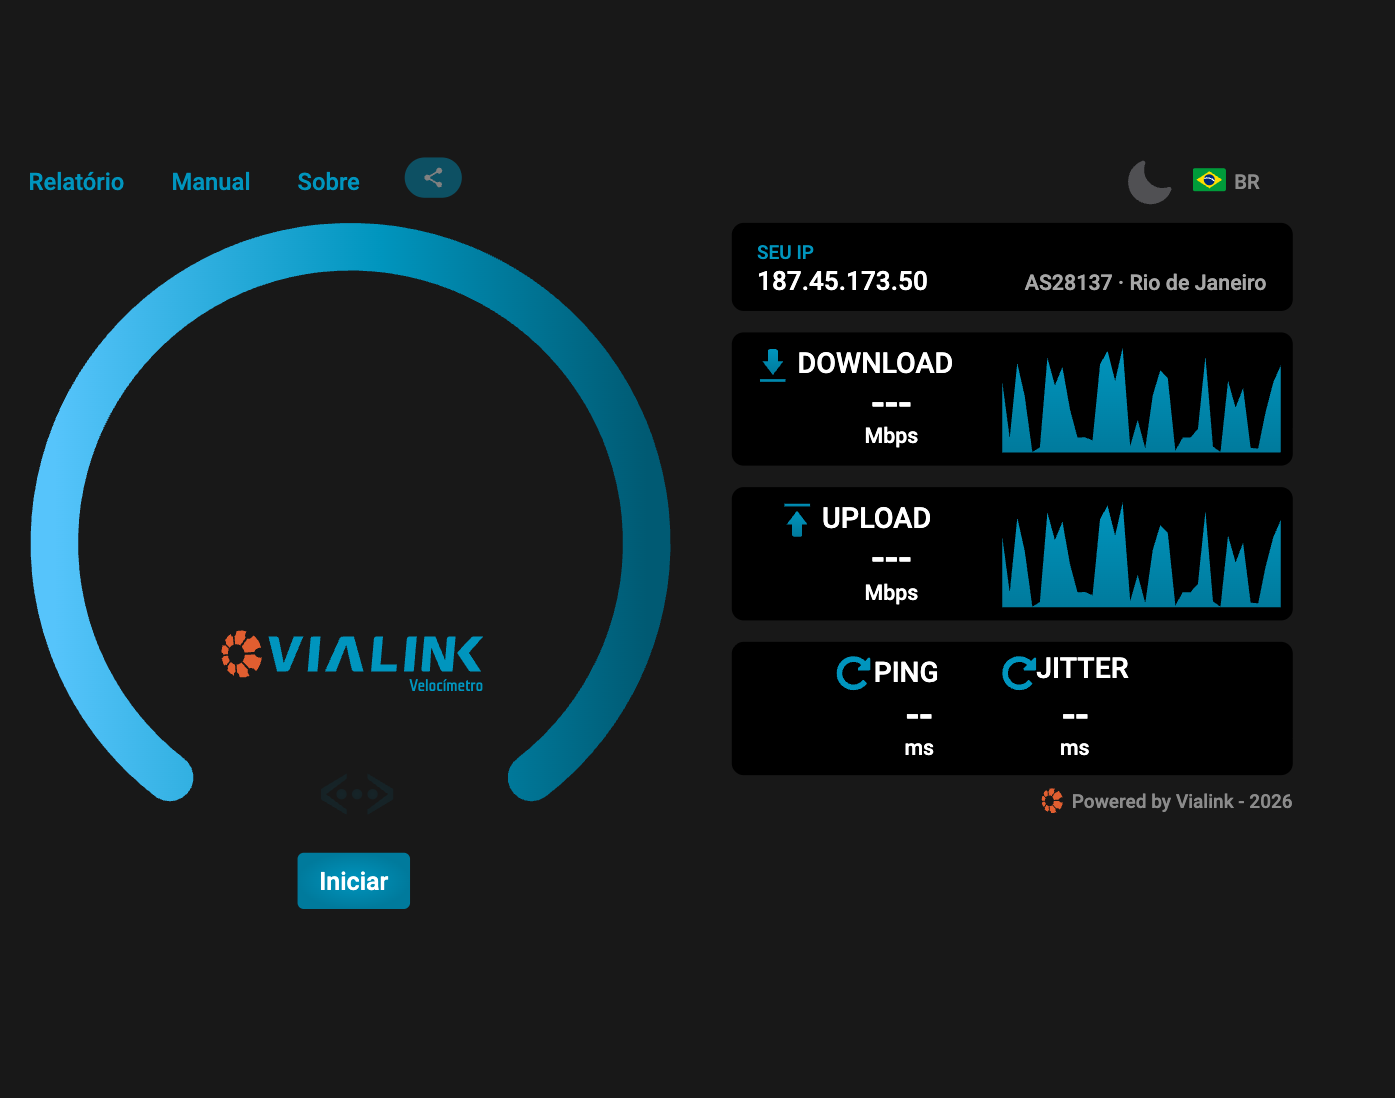
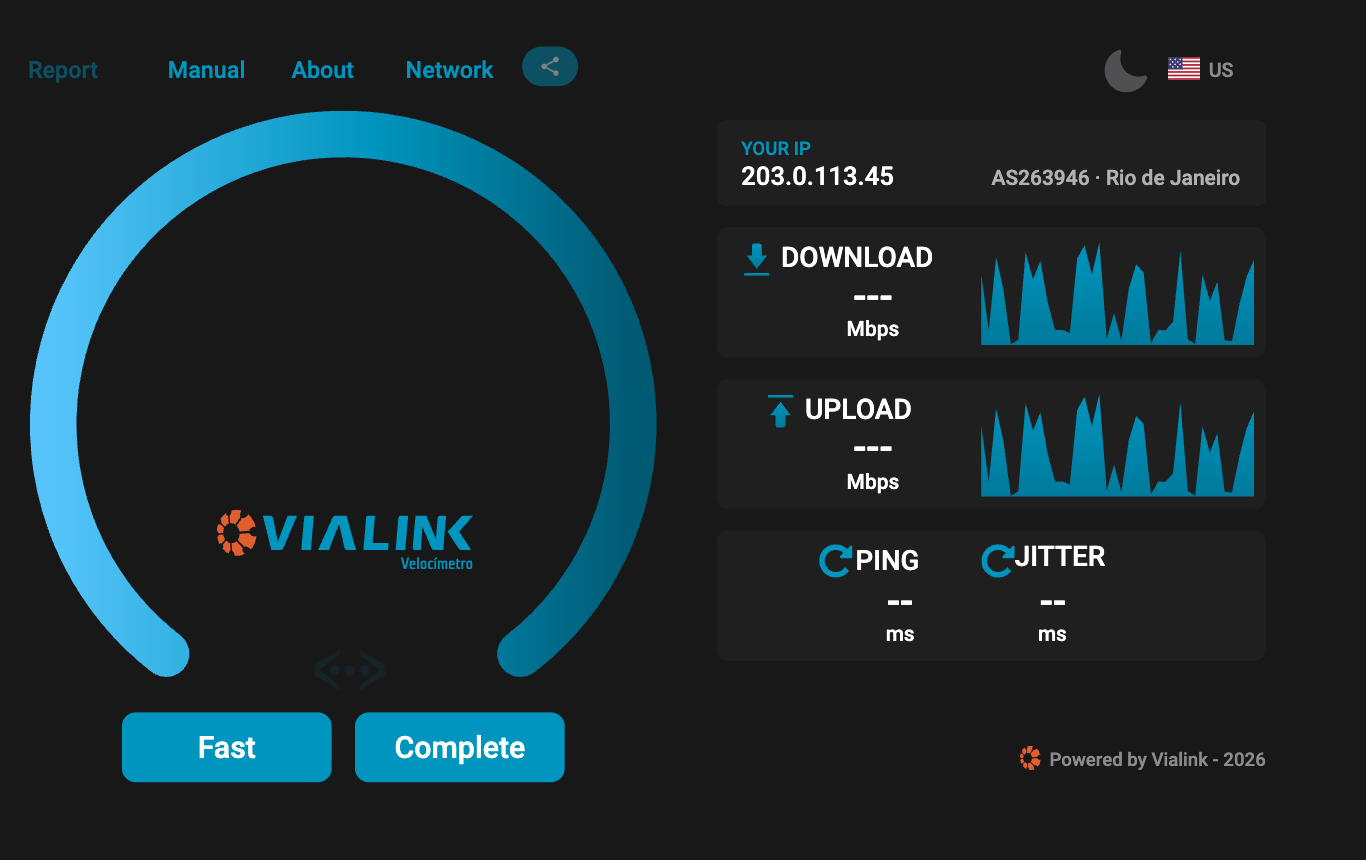
Sync do repositório interno — 2026-07-23

diff --git a/assets/js/conectividade.js b/assets/js/conectividade.js
@@ -204,10 +204,16 @@
       : (t.host + (t.ip && t.ip !== t.host ? ' (' + t.ip + ')' : ''));
   }
 
+  // Rótulo do destino: marcas ficam como estão; rótulos genéricos (ex.: o de
+  // referência internacional) trazem labelKey para tradução via i18n.
+  function rotulo(t) {
+    return t.labelKey ? tr(t.labelKey, t.label) : t.label;
+  }
+
   function linhaClienteInicial(t, idx) {
     var sub = subDestino(t);
     return '<tr id="cli-' + idx + '">' +
-      '<td class="destino">' + t.label + '<br><span class="host">' + sub + '</span></td>' +
+      '<td class="destino">' + rotulo(t) + '<br><span class="host">' + sub + '</span></td>' +
       '<td class="estado" colspan="4">' + tr('connect.pending', 'aguardando…') + '</td></tr>';
   }
 
@@ -231,7 +237,7 @@
 
   function linhaServidorInicial(t, idx) {
     return '<tr id="srv-' + idx + '">' +
-      '<td class="destino">' + t.label + '<br><span class="host">' + t.host + '</span></td>' +
+      '<td class="destino">' + rotulo(t) + '<br><span class="host">' + t.host + '</span></td>' +
       '<td class="estado" colspan="4">' + tr('connect.pending', 'aguardando…') + '</td></tr>';
   }
 
@@ -302,7 +308,7 @@
         preencheServidor(idx, j);
         var d = j && j.dest;
         resServidor[idx] = {
-          label: t.label, host: t.host,
+          label: rotulo(t), host: t.host,
           hops: (j && j.hops != null) ? j.hops : null,
           avg: d ? d.avg : null, jitter: d ? d.jitter : null,
           loss: d ? d.loss : null, filtered: !!(d && d.filtered), na: !d
@@ -321,7 +327,7 @@
       })(estado));
       preencheCliente(a, r);
       resCliente[a] = {
-        label: alvos[a].label, sub: subDestino(alvos[a]),
+        label: rotulo(alvos[a]), sub: subDestino(alvos[a]),
         latency: r.latency, min: r.min, jitter: r.jitter,
         loss: r.loss, amostras: r.amostras
       };

diff --git a/assets/js/tenants.js b/assets/js/tenants.js
@@ -27,7 +27,7 @@
     { label: 'Microsoft 365',     host: 'www.microsoft.com' },
     { label: 'WhatsApp',          host: 'whatsapp.com' },
     { label: 'Globo',             host: 'www.globo.com' },
-    { label: 'Internacional (EUA)', host: 'whitehouse.gov' }
+    { label: 'Internacional (EUA)', labelKey: 'connect.dest.intl', host: 'whitehouse.gov' }
   ];
 
   var TENANTS = {

diff --git a/assets/js/i18n/pt-BR.js b/assets/js/i18n/pt-BR.js
@@ -176,6 +176,7 @@ window.VLK_I18N.register({
     'connect.thLat': 'Latência',
     'connect.min': 'mín',
     'connect.ocaSub': 'Open Connect (CDN local)',
+    'connect.dest.intl': 'Internacional (EUA)',
     'connect.thJit': 'Jitter',
     'connect.thFail': 'Falhas',
     'connect.thSamples': 'Amostras',

diff --git a/assets/js/i18n/en-US.js b/assets/js/i18n/en-US.js
@@ -177,6 +177,7 @@ window.VLK_I18N.register({
     'connect.thLat': 'Latency',
     'connect.min': 'min',
     'connect.ocaSub': 'Open Connect (local CDN)',
+    'connect.dest.intl': 'International (USA)',
     'connect.thJit': 'Jitter',
     'connect.thFail': 'Failures',
     'connect.thSamples': 'Samples',

diff --git a/README.pt-BR.md b/README.pt-BR.md
@@ -21,8 +21,12 @@ Node.js, sem backend obrigatório — qualquer servidor web serve.
   russo e alemão, com seletor de bandeira, detecção do idioma do navegador e
   preferência em cookie. [Contribua com o seu idioma](assets/js/i18n/README.md)
   — é um único arquivo JS.
-- **Relatório e PDF** — página de relatório imprimível (1 página A4) e PDF
-  gerado no navegador (jsPDF vendorizado, sem CDN) compartilhável pelo painel
+- **Testes Rápido e Completo** — o teste de velocidade clássico, ou um teste
+  **Completo** que também mede a **saúde da rede**: latência, jitter e perda de
+  pacotes até destinos populares (Google, Netflix, WhatsApp, resolvedores DNS…),
+  de **duas origens** — o navegador *e* o servidor (`traceroute`/ICMP real).
+- **Relatório e PDF** — página de relatório imprimível (velocidade **e** rede) e
+  PDF gerado no navegador (jsPDF vendorizado, sem CDN) compartilhável pelo painel
   nativo do celular.
 - **Card de IP/provedor**, escala do velocímetro **dinâmica**, tema escuro
   por padrão, layout mobile dedicado.
@@ -35,7 +39,8 @@ Node.js, sem backend obrigatório — qualquer servidor web serve.
   roda contra a *sua* infraestrutura.
 
 <p align="center">
-  <img src="docs/img/screenshot-idiomas.png" alt="Seletor de idiomas (8 idiomas)" width="68%">
+  <img src="docs/img/screenshot-network.png" alt="Teste Completo — análise de rede (camadas cliente + servidor)" width="46%">
+  <img src="docs/img/screenshot-idiomas.png" alt="Seletor de idiomas (8 idiomas)" width="46%">
 </p>
 
 ## Instalação em servidor próprio

diff --git a/README.md b/README.md
@@ -22,7 +22,11 @@ backend — any web server will do.
   Russian and German, with a flag selector, browser-language detection and a
   cookie-stored preference. [Contribute your language](assets/js/i18n/README.md)
   — it's a single JS file.
-- **Report and PDF** — printable report page (single A4 sheet) and a PDF
+- **Fast & Complete tests** — the classic speed test, or a **Complete** run
+  that also measures **network health**: latency, jitter and packet loss to
+  popular destinations (Google, Netflix, WhatsApp, DNS resolvers…), from **two
+  vantage points** — the browser *and* the server (real `traceroute`/ICMP).
+- **Report and PDF** — printable report page (speed **and** network) and a PDF
   generated in the browser (vendored jsPDF, no CDN), shareable through the
   phone's native share sheet.
 - **IP/provider card**, **dynamic** gauge scale, dark theme by default,
@@ -36,7 +40,8 @@ backend — any web server will do.
   against *your* infrastructure.
 
 <p align="center">
-  <img src="docs/img/screenshot-idiomas.png" alt="Language selector (8 languages)" width="68%">
+  <img src="docs/img/screenshot-network.png" alt="Complete test — network analysis (client + server layers)" width="46%">
+  <img src="docs/img/screenshot-idiomas.png" alt="Language selector (8 languages)" width="46%">
 </p>
 
 ## Self-hosting
